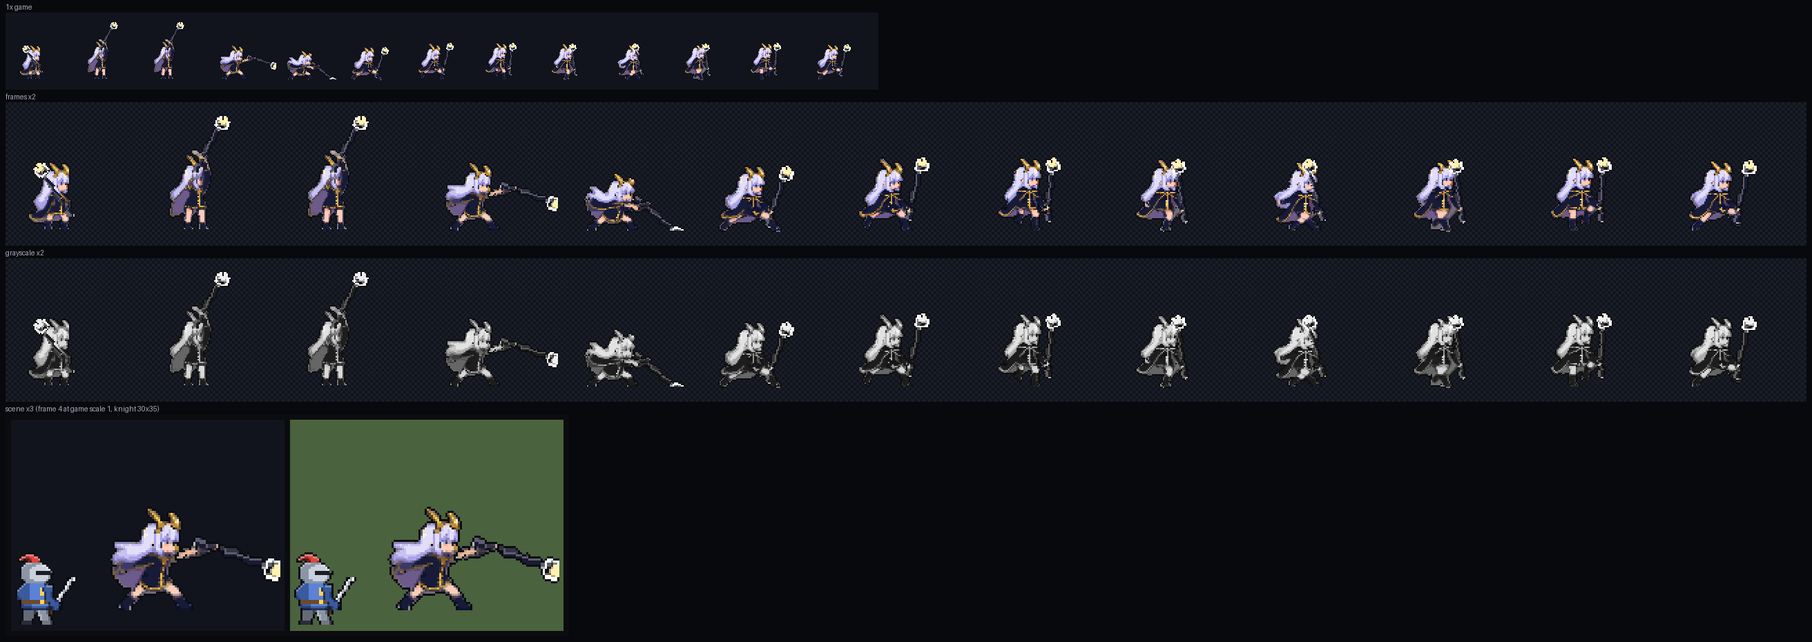
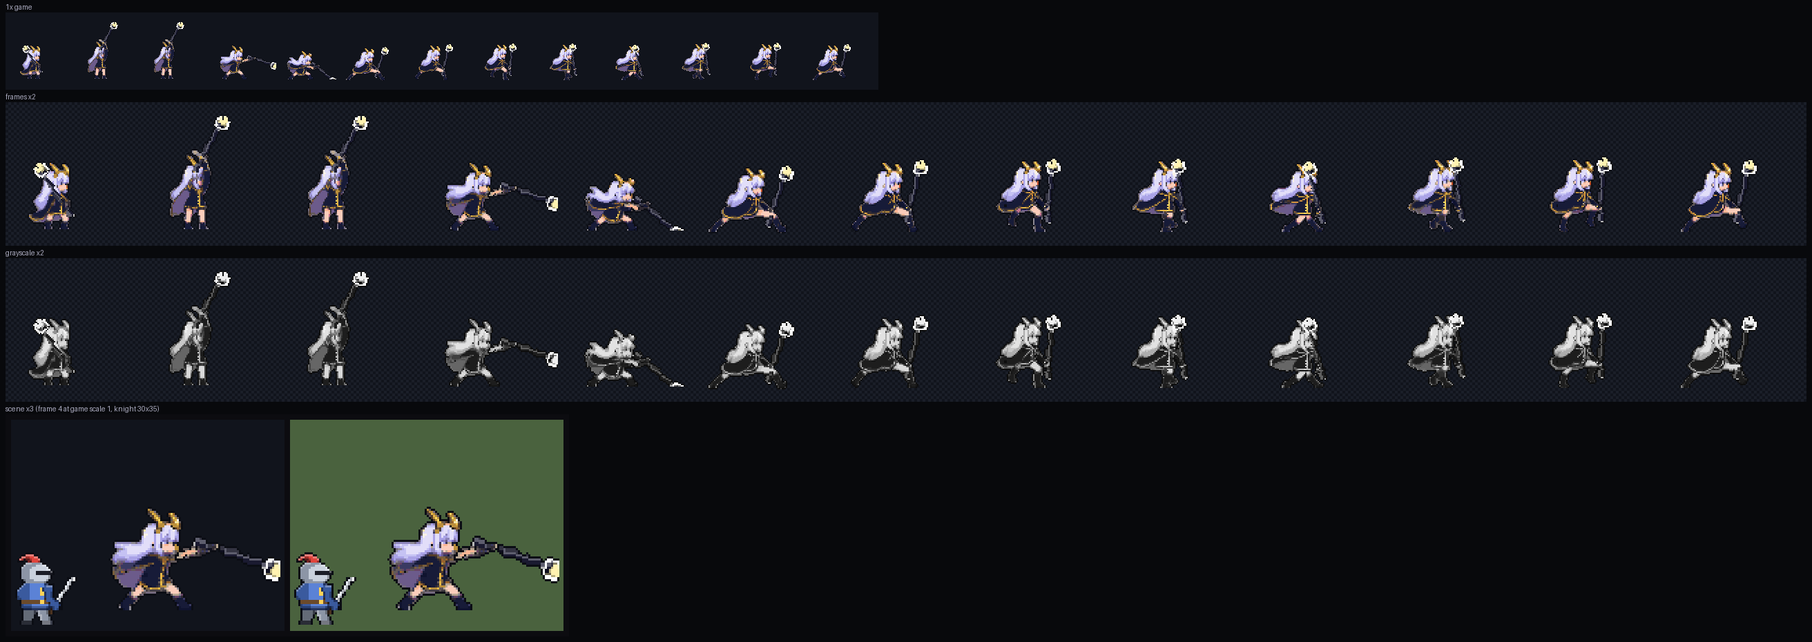
마법사 계열: 빙결·뇌제 걷기 다듬기 (W2 재생성 usage 6, 누계 94/105, 프레임 고르기 walk_pick), 뇌제 합격, 스펙 마무리

diff --git a/src/sprites/meta.js b/src/sprites/meta.js
@@ -14,7 +14,7 @@ const SHEET_META = {
   dragoon: {"w":128,"h":128,"foot":[36,112],"anims":{"idle":{"row":0,"frames":4,"fps":6,"loop":true},"guard":{"row":1,"frames":4,"fps":8,"loop":true},"walk":{"row":2,"frames":8,"fps":10,"loop":true},"atkA":{"row":3,"frames":7,"fps":14,"loop":false,"hit":2},"atkB":{"row":4,"frames":6,"fps":14,"loop":false,"hit":2},"cast":{"row":5,"frames":9,"fps":10,"loop":true,"key":"wa","val":[-1.57,-1.2,-0.8,-0.4,0,0.4,0.8,1.2,1.57],"wrap":false},"hurt":{"row":6,"frames":2,"fps":12,"loop":false},"death":{"row":7,"frames":5,"fps":8,"loop":false}},"pts":{"idle":[[62,94,53,57],[62,94,53,58],[62,94,53,58],[62,94,53,57]],"guard":[[84,87,32,70],[84,88,32,71],[84,88,32,71],[84,87,32,70]],"walk":[[62,94,53,57],[53,60,51,56],[49,95,31,57],[50,64,47,57],[49,96,46,58],[50,63,48,57],[52,60,50,56],[53,59,51,56]],"atkA":[[84,87,32,70],[80,87,29,73],[93,85,36,70],[103,84,45,72],[99,84,40,71],[93,86,36,69],[90,84,33,69]],"atkB":[[68,58,66,56],[68,49,66,47],[70,104,47,56],[72,105,46,76],[95,92,38,71],[91,86,34,69]],"cast":[[68,49,66,47],[68,49,66,47],[68,49,66,47],[68,58,66,56],[95,92,38,71],[95,92,38,71],[72,105,46,76],[70,104,47,56],[70,104,47,56]],"hurt":[[58,88,42,52],[61,91,48,54]],"death":[[67,60,63,58],[80,68,49,64],[92,86,53,68],[93,103,42,68],[78,94,48,70]]},"v":"34231d57"},
   electromancer: {"w":96,"h":96,"foot":[33,88],"anims":{"idle":{"row":0,"frames":4,"fps":4,"loop":true},"guard":{"row":1,"frames":4,"fps":4,"loop":true},"walk":{"row":2,"frames":8,"fps":10,"loop":true},"atkA":{"row":3,"frames":7,"fps":16,"loop":false,"hit":3},"atkB":{"row":4,"frames":7,"fps":16,"loop":false,"hit":4},"cast":{"row":5,"frames":7,"fps":10,"loop":false,"key":"bowA","val":[-0.2,-0.2,-0.7,-1.4,-1.4,0.7,1.2]},"hurt":{"row":6,"frames":2,"fps":12,"loop":false},"death":{"row":7,"frames":5,"fps":8,"loop":false}},"pts":{"idle":[[49,40,34,40],[49,40,34,40],[49,41,34,41],[49,41,34,41]],"guard":[[49,41,34,41],[49,41,34,41],[49,42,34,42],[49,42,34,42]],"walk":[[62,44,35,40],[58,42,39,38],[54,40,37,37],[45,42,31,38],[39,43,31,39],[46,42,35,38],[53,40,31,36],[59,42,28,44]],"atkA":[[49,40,34,40],[0,32,13,42],[86,49,33,41],[95,77,38,43],[95,69,39,46],[91,71,34,42],[69,45,32,40]],"atkB":[[64,50,30,45],[36,4,36,3],[11,9,19,9],[78,79,37,46],[88,88,49,50],[86,92,49,50],[79,59,35,43]],"cast":[[39,44,30,40],[37,43,30,39],[26,12,31,11],[38,0,38,0],[40,0,38,0],[95,54,35,42],[86,91,48,49]],"hurt":[[47,40,32,40],[48,40,33,40]],"death":[[47,40,32,40],[47,40,28,35],[47,40,28,56],[47,40,22,56],[47,40,26,61]]},"v":"c893991a"},
   fighter: {"w":64,"h":64,"foot":[32,58],"anims":{"idle":{"row":0,"frames":4,"fps":6,"loop":true},"guard":{"row":1,"frames":4,"fps":8,"loop":true},"walk":{"row":2,"frames":6,"fps":10,"loop":true},"dash":{"row":3,"frames":2,"fps":12,"loop":true},"atkA":{"row":4,"frames":4,"fps":14,"loop":false,"hit":1},"atkB":{"row":5,"frames":4,"fps":14,"loop":false,"hit":1},"charge":{"row":6,"frames":4,"fps":10,"loop":true},"release":{"row":7,"frames":3,"fps":12,"loop":false,"hit":1},"hurt":{"row":8,"frames":2,"fps":12,"loop":false},"death":{"row":9,"frames":5,"fps":8,"loop":false},"sit":{"row":10,"frames":2,"fps":2,"loop":true}},"pts":{"idle":[[41,35,35,21],[39,34,33,18],[40,34,37,18],[41,44,38,19]],"guard":[[45,40,37,22],[45,41,37,23],[45,41,37,23],[45,40,37,22]],"walk":[[46,40,36,22],[46,43,40,20],[44,45,38,21],[43,28,37,22],[43,45,35,22],[45,42,37,20]],"dash":[[47,47,40,21],[40,28,35,22]],"atkA":[[49,42,41,24],[50,39,37,21],[51,40,36,22],[45,40,37,22]],"atkB":[[46,40,36,23],[53,41,43,23],[51,41,40,22],[51,42,42,24]],"charge":[[45,43,35,21],[44,46,36,21],[44,45,39,21],[44,46,38,23]],"release":[[49,42,41,24],[62,45,51,27],[53,41,43,23]],"hurt":[[46,50,35,22],[47,30,40,24]],"death":[[43,48,33,21],[45,33,43,26],[46,34,39,28],[49,51,42,34],[49,45,45,39]],"sit":[[38,33,31,27],[38,34,31,28]]},"v":"f7aa33a6"},
-  frostlord: {"w":96,"h":96,"foot":[33,89],"anims":{"idle":{"row":0,"frames":4,"fps":4,"loop":true},"guard":{"row":1,"frames":4,"fps":4,"loop":true},"walk":{"row":2,"frames":8,"fps":10,"loop":true},"atkA":{"row":3,"frames":7,"fps":16,"loop":false,"hit":3},"atkB":{"row":4,"frames":7,"fps":16,"loop":false,"hit":4},"cast":{"row":5,"frames":6,"fps":9,"loop":false,"key":"bowA","val":[-0.2,-0.7,-1.4,-1.4,0.7,1.2]},"hurt":{"row":6,"frames":2,"fps":12,"loop":false},"death":{"row":7,"frames":5,"fps":8,"loop":false}},"pts":{"idle":[[55,39,29,41],[55,39,29,41],[55,40,29,42],[55,40,29,42]],"guard":[[55,40,29,42],[55,40,29,42],[55,41,29,43],[55,41,29,43]],"walk":[[62,42,36,40],[59,39,39,39],[54,37,34,35],[44,38,36,36],[38,40,36,38],[45,38,35,36],[52,37,34,35],[59,39,27,47]],"atkA":[[55,39,29,41],[0,27,31,42],[89,48,36,41],[95,46,37,44],[95,48,37,44],[86,49,34,43],[69,43,35,40]],"atkB":[[64,47,31,46],[26,3,27,1],[26,3,27,1],[90,70,37,45],[87,94,45,50],[94,75,39,49],[77,55,36,42]],"cast":[[31,43,31,41],[8,22,20,29],[36,0,32,0],[38,0,33,0],[95,54,38,41],[86,93,45,47]],"hurt":[[53,39,27,41],[54,39,28,41]],"death":[[53,39,27,41],[53,39,13,34],[53,39,25,19],[53,39,33,40],[53,39,41,45]]},"v":"94d47a83"},
+  frostlord: {"w":96,"h":96,"foot":[33,89],"anims":{"idle":{"row":0,"frames":4,"fps":4,"loop":true},"guard":{"row":1,"frames":4,"fps":4,"loop":true},"walk":{"row":2,"frames":8,"fps":10,"loop":true},"atkA":{"row":3,"frames":7,"fps":16,"loop":false,"hit":3},"atkB":{"row":4,"frames":7,"fps":16,"loop":false,"hit":4},"cast":{"row":5,"frames":6,"fps":9,"loop":false,"key":"bowA","val":[-0.2,-0.7,-1.4,-1.4,0.7,1.2]},"hurt":{"row":6,"frames":2,"fps":12,"loop":false},"death":{"row":7,"frames":5,"fps":8,"loop":false}},"pts":{"idle":[[55,39,29,41],[55,39,29,41],[55,40,29,42],[55,40,29,42]],"guard":[[55,40,29,42],[55,40,29,42],[55,41,29,43],[55,41,29,43]],"walk":[[62,42,36,41],[58,40,35,39],[54,37,34,35],[44,38,36,36],[38,40,36,38],[45,38,35,36],[52,37,34,35],[59,39,27,47]],"atkA":[[55,39,29,41],[0,27,31,42],[89,48,36,41],[95,46,37,44],[95,48,37,44],[86,49,34,43],[69,43,35,40]],"atkB":[[64,47,31,46],[26,3,27,1],[26,3,27,1],[90,70,37,45],[87,94,45,50],[94,75,39,49],[77,55,36,42]],"cast":[[31,43,31,41],[8,22,20,29],[36,0,32,0],[38,0,33,0],[95,54,38,41],[86,93,45,47]],"hurt":[[53,39,27,41],[54,39,28,41]],"death":[[53,39,27,41],[53,39,13,34],[53,39,25,19],[53,39,33,40],[53,39,41,45]]},"v":"c337102d"},
   grandmaster: {"w":64,"h":64,"foot":[32,58],"anims":{"idle":{"row":0,"frames":4,"fps":6,"loop":true},"guard":{"row":1,"frames":4,"fps":8,"loop":true},"walk":{"row":2,"frames":6,"fps":10,"loop":true},"dash":{"row":3,"frames":2,"fps":12,"loop":true},"atkA":{"row":4,"frames":4,"fps":14,"loop":false,"hit":1},"atkB":{"row":5,"frames":4,"fps":14,"loop":false,"hit":1},"charge":{"row":6,"frames":4,"fps":10,"loop":true},"release":{"row":7,"frames":3,"fps":12,"loop":false,"hit":1},"skillA":{"row":8,"frames":4,"fps":14,"loop":false,"hit":2},"skillB":{"row":9,"frames":4,"fps":14,"loop":true,"hit":0},"awaken":{"row":10,"frames":6,"fps":10,"loop":false},"hurt":{"row":11,"frames":2,"fps":12,"loop":false},"death":{"row":12,"frames":5,"fps":8,"loop":false},"sit":{"row":13,"frames":2,"fps":2,"loop":true}},"pts":{"idle":[[44,40,34,25],[44,41,34,26],[44,41,34,26],[44,40,34,25]],"guard":[[47,39,33,25],[47,40,33,26],[47,40,33,26],[47,39,33,25]],"walk":[[42,42,32,24],[44,44,32,22],[40,41,30,20],[38,42,30,21],[38,42,29,21],[40,50,30,22]],"dash":[[37,38,26,27],[50,43,40,27]],"atkA":[[45,46,33,25],[46,44,31,21],[46,44,31,21],[47,39,33,25]],"atkB":[[42,35,34,25],[57,39,35,24],[57,39,35,24],[47,39,33,25]],"charge":[[45,46,33,25],[42,35,34,25],[42,34,35,26],[42,35,34,25]],"release":[[42,34,35,26],[46,44,31,21],[46,44,31,21]],"skillA":[[42,35,34,25],[57,39,35,24],[58,39,36,24],[58,39,36,24]],"skillB":[[49,36,34,21],[49,37,34,22],[49,37,34,22],[49,36,34,21]],"awaken":[[42,35,34,25],[45,46,33,25],[42,39,33,21],[42,40,33,22],[42,39,33,21],[47,39,33,25]],"hurt":[[44,43,32,23],[37,43,25,23]],"death":[[43,40,35,24],[45,34,37,25],[45,40,37,27],[50,46,38,36],[49,49,40,41]],"sit":[[46,49,33,21],[46,50,33,22]]},"v":"1bb3225a"},
   greatswordsman: {"w":64,"h":64,"foot":[28,59],"anims":{"idle":{"row":0,"frames":2,"fps":3,"loop":true},"walk":{"row":1,"frames":4,"fps":8,"loop":true},"atkA":{"row":2,"frames":7,"fps":12,"loop":false,"hit":3},"cast":{"row":3,"frames":6,"fps":8,"loop":true},"hurt":{"row":4,"frames":2,"fps":12,"loop":false}},"pts":{"idle":[[37,35,35,14],[37,35,35,15]],"walk":[[37,35,35,14],[37,35,35,15],[37,35,35,14],[37,35,35,16]],"atkA":[[37,35,35,14],[37,35,25,13],[37,35,24,8],[37,35,35,11],[37,35,35,11],[37,35,35,15],[37,35,35,14]],"cast":[[37,35,35,14],[37,35,31,9],[37,35,43,6],[37,35,43,6],[37,35,30,14],[37,35,35,14]],"hurt":[[37,35,33,14],[37,35,34,14]]},"v":"a4044480"},
   halberdier: {"w":128,"h":128,"foot":[66,112],"anims":{"idle":{"row":0,"frames":4,"fps":6,"loop":true},"guard":{"row":1,"frames":4,"fps":8,"loop":true},"walk":{"row":2,"frames":8,"fps":10,"loop":true},"atkA":{"row":3,"frames":7,"fps":14,"loop":false,"hit":2},"atkB":{"row":4,"frames":6,"fps":14,"loop":false,"hit":2},"cast":{"row":5,"frames":8,"fps":10,"loop":true,"key":"wa","val":[-3.14,-2.36,-1.57,-0.79,0,0.79,1.57,2.36],"wrap":true},"hurt":{"row":6,"frames":2,"fps":12,"loop":false},"death":{"row":7,"frames":5,"fps":8,"loop":false}},"pts":{"idle":[[94,71,84,60],[94,72,84,61],[94,72,84,61],[94,71,84,60]],"guard":[[85,96,66,68],[85,96,66,69],[85,96,66,69],[85,96,66,68]],"walk":[[94,71,84,60],[95,70,84,59],[95,69,84,58],[95,70,84,59],[94,72,84,60],[95,70,84,59],[95,69,84,58],[95,70,84,59]],"atkA":[[85,96,66,68],[85,100,65,71],[106,74,67,66],[116,88,80,69],[116,105,75,75],[107,89,73,68],[105,93,70,67]],"atkB":[[84,105,65,67],[85,101,65,66],[99,96,82,74],[112,105,83,75],[120,83,76,70],[115,85,70,67]],"cast":[[85,96,66,68],[84,105,65,67],[84,105,65,67],[120,83,76,70],[106,74,67,66],[116,105,75,75],[116,105,75,75],[85,100,65,71]],"hurt":[[87,67,74,55],[91,68,79,57]],"death":[[103,74,94,61],[113,81,87,66],[119,94,96,72],[121,104,88,82],[110,100,89,87]]},"v":"19944184"},
@@ -33,7 +33,7 @@ const SHEET_META = {
   swordsaint: {"w":96,"h":96,"foot":[48,91],"anims":{"idle":{"row":0,"frames":4,"fps":6,"loop":true},"guard":{"row":1,"frames":4,"fps":8,"loop":true},"walk":{"row":2,"frames":6,"fps":10,"loop":true},"atkA":{"row":3,"frames":4,"fps":14,"loop":false,"hit":2},"atkB":{"row":4,"frames":4,"fps":14,"loop":false,"hit":2},"cast":{"row":5,"frames":6,"fps":8,"loop":true,"key":"wa","val":[-2.618,-1.745,-1.047,-0.436,0.175,0.698]},"hurt":{"row":6,"frames":2,"fps":12,"loop":false},"death":{"row":7,"frames":5,"fps":8,"loop":false}},"pts":{"idle":[[57,82,47,54],[57,82,47,53],[57,81,47,52],[57,81,47,54]],"guard":[[57,83,47,55],[57,83,47,54],[57,82,47,53],[57,82,47,55]],"walk":[[55,81,49,54],[55,82,50,55],[54,82,50,56],[53,81,48,55],[51,81,48,54],[51,82,48,54]],"atkA":[[59,79,48,55],[53,70,63,50],[57,76,49,55],[55,85,49,55]],"atkB":[[59,79,48,55],[42,70,64,50],[56,72,48,55],[53,83,48,55]],"cast":[[34,76,47,55],[42,70,36,49],[54,70,64,50],[57,72,49,55],[57,76,49,55],[55,85,49,55]],"hurt":[[55,82,45,54],[56,82,46,54]],"death":[[48,86,38,82],[48,86,38,82],[48,86,38,82],[48,86,38,82],[48,86,38,82]]},"v":"a95ef063"},
   swordsman: {"w":64,"h":64,"foot":[28,59],"anims":{"idle":{"row":0,"frames":2,"fps":3,"loop":true},"walk":{"row":1,"frames":4,"fps":8,"loop":true},"atkA":{"row":2,"frames":7,"fps":12,"loop":false,"hit":3},"cast":{"row":3,"frames":6,"fps":8,"loop":true},"hurt":{"row":4,"frames":2,"fps":12,"loop":false}},"pts":{"idle":[[37,35,31,16],[37,35,31,17]],"walk":[[37,35,30,16],[37,35,30,13],[37,35,29,15],[37,35,30,13]],"atkA":[[37,35,31,16],[37,35,29,17],[37,35,42,7],[37,35,35,16],[37,35,35,16],[37,35,31,17],[37,35,31,16]],"cast":[[37,35,31,16],[37,35,41,7],[37,35,44,6],[37,35,44,6],[37,35,24,16],[37,35,31,16]],"hurt":[[37,35,29,16],[37,35,30,16]]},"v":"1deb230b"},
   tempest: {"w":64,"h":64,"foot":[32,58],"anims":{"idle":{"row":0,"frames":4,"fps":6,"loop":true},"guard":{"row":1,"frames":4,"fps":8,"loop":true},"walk":{"row":2,"frames":6,"fps":10,"loop":true},"dash":{"row":3,"frames":2,"fps":12,"loop":true},"atkA":{"row":4,"frames":4,"fps":14,"loop":false,"hit":1},"atkB":{"row":5,"frames":4,"fps":14,"loop":false,"hit":1},"charge":{"row":6,"frames":4,"fps":10,"loop":true},"release":{"row":7,"frames":3,"fps":12,"loop":false,"hit":1},"skillA":{"row":8,"frames":4,"fps":14,"loop":false,"hit":2},"skillB":{"row":9,"frames":4,"fps":14,"loop":true,"hit":1},"awaken":{"row":10,"frames":6,"fps":10,"loop":false},"hurt":{"row":11,"frames":2,"fps":12,"loop":false},"death":{"row":12,"frames":5,"fps":8,"loop":false},"sit":{"row":13,"frames":2,"fps":2,"loop":true}},"pts":{"idle":[[46,45,27,20],[46,45,27,21],[46,45,27,21],[46,45,27,20]],"guard":[[47,46,27,20],[47,46,27,21],[47,46,27,21],[47,46,27,20]],"walk":[[45,47,26,19],[43,47,27,20],[43,35,27,20],[42,34,27,20],[42,35,27,20],[43,45,27,19]],"dash":[[35,29,20,19],[39,30,24,19]],"atkA":[[47,46,27,20],[58,25,19,11],[58,25,19,11],[47,46,27,20]],"atkB":[[45,48,27,20],[62,28,21,9],[62,28,21,9],[47,46,27,20]],"charge":[[45,46,27,20],[38,51,21,20],[33,40,17,21],[34,41,18,21]],"release":[[38,51,21,20],[56,39,31,20],[56,39,31,20]],"skillA":[[34,57,17,21],[57,26,29,12],[57,22,29,8],[57,27,29,13]],"skillB":[[57,29,25,16],[62,28,21,9],[57,29,25,16],[62,28,21,9]],"awaken":[[34,41,18,21],[45,46,27,20],[53,34,27,17],[53,35,27,18],[53,34,27,17],[47,46,27,20]],"hurt":[[46,46,23,7],[44,43,8,18]],"death":[[48,43,31,20],[49,38,34,21],[49,32,34,21],[52,49,33,31],[51,47,37,37]],"sit":[[38,40,24,20],[38,40,23,21]]},"v":"1d7b7083"},
-  thunderEmperor: {"w":96,"h":96,"foot":[33,88],"anims":{"idle":{"row":0,"frames":4,"fps":4,"loop":true},"guard":{"row":1,"frames":4,"fps":4,"loop":true},"walk":{"row":2,"frames":8,"fps":10,"loop":true},"atkA":{"row":3,"frames":7,"fps":16,"loop":false,"hit":3},"atkB":{"row":4,"frames":7,"fps":16,"loop":false,"hit":4},"cast":{"row":5,"frames":5,"fps":7,"loop":false,"key":"bowA","val":[-0.2,-1.4,-1.4,0.7,1.2]},"hurt":{"row":6,"frames":2,"fps":12,"loop":false},"death":{"row":7,"frames":5,"fps":8,"loop":false}},"pts":{"idle":[[55,39,31,41],[55,39,31,41],[55,40,31,42],[55,40,31,42]],"guard":[[55,40,31,42],[55,40,31,42],[55,41,31,43],[55,41,31,43]],"walk":[[62,42,34,42],[59,36,30,36],[54,36,39,37],[44,37,32,37],[37,37,39,36],[45,37,41,37],[53,36,31,36],[59,38,24,55]],"atkA":[[55,39,31,41],[0,30,26,42],[79,31,38,39],[95,61,36,43],[95,54,36,43],[89,51,32,40],[49,38,33,40]],"atkB":[[65,48,32,45],[54,6,38,29],[54,6,38,29],[90,70,40,42],[88,93,45,47],[82,95,38,47],[77,55,32,43]],"cast":[[18,41,27,39],[54,6,38,29],[54,6,38,29],[95,70,32,39],[86,93,47,50]],"hurt":[[53,39,29,41],[54,39,30,41]],"death":[[53,39,29,41],[53,39,17,38],[53,39,21,26],[53,39,27,43],[53,39,37,48]]},"v":"30563f75"},
+  thunderEmperor: {"w":96,"h":96,"foot":[33,88],"anims":{"idle":{"row":0,"frames":4,"fps":4,"loop":true},"guard":{"row":1,"frames":4,"fps":4,"loop":true},"walk":{"row":2,"frames":8,"fps":10,"loop":true},"atkA":{"row":3,"frames":7,"fps":16,"loop":false,"hit":3},"atkB":{"row":4,"frames":7,"fps":16,"loop":false,"hit":4},"cast":{"row":5,"frames":5,"fps":7,"loop":false,"key":"bowA","val":[-0.2,-1.4,-1.4,0.7,1.2]},"hurt":{"row":6,"frames":2,"fps":12,"loop":false},"death":{"row":7,"frames":5,"fps":8,"loop":false}},"pts":{"idle":[[55,39,31,41],[55,39,31,41],[55,40,31,42],[55,40,31,42]],"guard":[[55,40,31,42],[55,40,31,42],[55,41,31,43],[55,41,31,43]],"walk":[[62,42,33,43],[59,38,32,39],[54,37,41,38],[44,37,34,38],[38,39,38,38],[45,36,44,36],[53,36,29,43],[59,38,16,66]],"atkA":[[55,39,31,41],[0,30,26,42],[79,31,38,39],[95,61,36,43],[95,54,36,43],[89,51,32,40],[49,38,33,40]],"atkB":[[65,48,32,45],[54,6,38,29],[54,6,38,29],[90,70,40,42],[88,93,45,47],[82,95,38,47],[77,55,32,43]],"cast":[[18,41,27,39],[54,6,38,29],[54,6,38,29],[95,70,32,39],[86,93,47,50]],"hurt":[[53,39,29,41],[54,39,30,41]],"death":[[53,39,29,41],[53,39,17,38],[53,39,21,26],[53,39,27,43],[53,39,37,48]]},"v":"04c6012e"},
   tyrant: {"w":128,"h":128,"foot":[64,123],"anims":{"idle":{"row":0,"frames":4,"fps":6,"loop":true},"guard":{"row":1,"frames":4,"fps":8,"loop":true},"walk":{"row":2,"frames":6,"fps":10,"loop":true},"atkA":{"row":3,"frames":4,"fps":14,"loop":false,"hit":2},"atkB":{"row":4,"frames":4,"fps":14,"loop":false,"hit":2},"cast":{"row":5,"frames":6,"fps":8,"loop":true,"key":"wa","val":[-2.618,-1.745,-1.047,-0.436,0.175,0.698]},"hurt":{"row":6,"frames":2,"fps":12,"loop":false},"death":{"row":7,"frames":5,"fps":8,"loop":false}},"pts":{"idle":[[73,114,94,77],[73,114,94,77],[73,113,94,76],[73,113,94,76]],"guard":[[73,115,94,78],[73,115,94,78],[73,114,94,77],[73,114,94,77]],"walk":[[71,113,57,85],[71,114,57,86],[70,114,57,86],[69,113,55,85],[67,113,56,85],[67,114,56,85]],"atkA":[[73,113,94,76],[56,99,58,55],[72,104,56,84],[69,115,56,84]],"atkB":[[73,113,94,76],[50,107,53,86],[74,111,56,86],[74,111,56,86]],"cast":[[50,107,16,81],[56,99,46,56],[72,99,93,62],[74,111,56,86],[74,111,56,86],[69,115,56,84]],"hurt":[[71,114,92,77],[72,114,93,77]],"death":[[64,118,54,114],[64,118,54,114],[64,118,54,114],[64,118,54,114],[64,118,54,114]]},"v":"b1bf88b9"},
   voidArcher: {"w":96,"h":96,"foot":[42,86],"anims":{"idle":{"row":0,"frames":4,"fps":6,"loop":true},"guard":{"row":1,"frames":4,"fps":8,"loop":true},"walk":{"row":2,"frames":8,"fps":10,"loop":true},"atkA":{"row":3,"frames":8,"fps":14,"loop":false,"hit":5},"atkB":{"row":4,"frames":8,"fps":14,"loop":false,"hit":5},"cast":{"row":5,"frames":4,"fps":10,"loop":true,"key":"pull","val":[0,4.5,7.5,12]},"castUp":{"row":6,"frames":2,"fps":10,"loop":true,"key":"pull","val":[6,12]},"hurt":{"row":7,"frames":2,"fps":12,"loop":false},"death":{"row":8,"frames":5,"fps":8,"loop":false}},"pts":{"idle":[[62,55,47,36],[62,56,47,37],[62,56,47,37],[62,55,47,36]],"guard":[[62,56,47,37],[62,57,47,38],[62,57,47,38],[62,56,47,37]],"walk":[[58,68,48,37],[60,64,48,36],[60,63,48,35],[60,64,48,36],[52,52,48,37],[61,68,48,36],[62,66,48,35],[63,66,48,36]],"atkA":[[62,55,47,36],[61,59,45,37],[59,62,43,37],[57,60,42,37],[57,60,43,37],[59,60,44,37],[59,60,44,37],[62,55,47,36]],"atkB":[[62,55,47,36],[61,59,45,37],[59,62,43,37],[57,60,42,37],[57,60,43,37],[59,60,44,37],[59,60,44,37],[62,55,47,36]],"cast":[[62,55,47,36],[61,59,45,37],[59,62,43,37],[57,60,43,37]],"castUp":[[59,62,43,37],[57,60,43,37]],"hurt":[[60,55,45,36],[61,55,46,36]],"death":[[61,55,46,36],[50,61,38,36],[46,69,14,36],[40,67,8,50],[39,72,7,53]]},"v":"af43de05"},
   warlord: {"w":128,"h":128,"foot":[66,112],"anims":{"idle":{"row":0,"frames":4,"fps":6,"loop":true},"guard":{"row":1,"frames":4,"fps":8,"loop":true},"walk":{"row":2,"frames":8,"fps":10,"loop":true},"atkA":{"row":3,"frames":8,"fps":14,"loop":false,"hit":2},"atkB":{"row":4,"frames":8,"fps":14,"loop":false,"hit":2},"cast":{"row":5,"frames":7,"fps":10,"loop":true,"key":"wa","val":[-2.99,-2.4,-2.16,-2.01,-1.65,-0.11,0.01],"wrap":true},"hurt":{"row":6,"frames":2,"fps":12,"loop":false},"death":{"row":7,"frames":5,"fps":8,"loop":false}},"pts":{"idle":[[87,76,82,65],[88,75,83,63],[88,75,83,63],[87,76,82,65]],"guard":[[81,67,70,59],[81,68,70,60],[81,68,70,60],[81,67,70,59]],"walk":[[89,77,84,65],[89,78,85,66],[89,75,84,64],[89,75,84,64],[88,76,83,63],[87,79,81,64],[88,74,81,63],[89,76,83,61]],"atkA":[[81,67,70,59],[83,105,50,60],[88,93,41,76],[87,92,60,78],[101,97,69,79],[108,98,68,79],[107,100,68,78],[106,96,68,78]],"atkB":[[78,71,70,56],[81,105,56,56],[88,104,52,58],[89,104,49,58],[109,96,68,78],[108,97,68,78],[111,92,65,78],[109,95,65,78]],"cast":[[87,92,60,78],[89,104,49,58],[83,105,50,60],[81,105,56,56],[81,67,70,59],[111,92,65,78],[106,96,68,78]],"hurt":[[79,66,73,52],[84,64,78,53]],"death":[[94,68,90,56],[104,67,85,65],[114,87,86,72],[114,105,93,83],[99,98,68,86]]},"v":"9517f5f8"},

diff --git a/dev/review/sheets-mage.html b/dev/review/sheets-mage.html
@@ -39,7 +39,7 @@
   </ul>
 </div>
 
-<h2>▣5 3차 3종 — 새 디자인 + 관절 애니 (2026-10-17, PixelLab usage 37 · 계열 합계 88/90) <span class="wait">· 평타 3종 합격 · 시전+걷기 대마도사 합격, 빙결·뇌제 3.29 (SHEET_ON 꺼 둠, 켤지 사용자 확인)</span></h2>
+<h2>▣5 3차 3종 — 새 디자인 + 관절 애니 (2026-10-17, PixelLab usage 43 · 계열 합계 94/105) <span class="ok">· 켜짐 (사용자 승인) · 평타 3종 합격 · 시전+걷기 대마도사·뇌제 합격, 빙결의 군주 3.29</span></h2>
 <div class="box">
   <ul>
     <li>안 B(2차 시트에 소품 붙이기)는 빙결의 군주 시험 3.43 — 실루엣 차이가 왕관뿐(색깔놀이) → 안 A. 2차 그림 img2img 시안 12장도 모두 2차 복제(rules 1) → 텍스트 생성.</li>
@@ -48,8 +48,8 @@
   </ul>
   <table><tr><th>직업</th><th>평타 A+B</th><th>시전+걷기</th></tr>
     <tr><td>대마도사</td><td class="ok">3.57</td><td class="ok">3.57 (걷기 재생성 후)</td></tr>
-    <tr><td>빙결의 군주</td><td class="ok">3.57 (수리 후)</td><td class="no">3.29 — 걷기는 읽힘, 일부 프레임 다리 뭉개짐 (2.86→3.29)</td></tr>
-    <tr><td>뇌제</td><td class="ok">3.57 (수리 후)</td><td class="no">3.29 — 걷기는 읽힘, 보폭 차이 작음 (3.14→3.29)</td></tr></table>
+    <tr><td>빙결의 군주</td><td class="ok">3.57 (수리 후)</td><td class="no">3.29 — 걷기 후반 망토가 다리를 덮음 (2.86→3.29, 두 번 다듬어 유지)</td></tr>
+    <tr><td>뇌제</td><td class="ok">3.57 (수리 후)</td><td class="ok">3.57 (걷기 다듬기: 보폭 1.8배 재생성)</td></tr></table>
   <p>시험: <a href="../skills.html?sheetsOn=archmage,frostlord,thunderEmperor">dev/skills.html?sheetsOn=archmage,frostlord,thunderEmperor</a> (스킬 48시전 예외 0)</p>
   <div class="grid">
     <div class="card"><img src="sheets-mage/archmage.gif">대마도사</div>

diff --git a/dev/sheets-mage/skelgen.py b/dev/sheets-mage/skelgen.py
@@ -24,6 +24,7 @@ DESC = {
     'thunderEmperor': 'small chibi young woman thunder empress, 3 heads tall, golden crown with two large golden horns, long white hair, navy cape with gold trim, navy coat with gold buttons, navy boots, right hand empty, side view facing right the whole time, face always visible, never turns around',
 }
 ACTION = {'A': 'magic staff attacks: thrust forward, then raise overhead and slam down', 'B': 'casting a spell with both hands then walking',
+          'W2': 'walking forward with very long clear strides, the front knee lifting high, the back leg pushing far behind, the long robe or cape and long hair staying behind her so both legs in front are clearly separated',
           'W': 'walking forward with long clear strides, knees lifting, the long robe parting so both legs are clearly visible'}
 
 
@@ -111,7 +112,7 @@ def b64(im):
     return {'type': 'base64', 'base64': base64.b64encode(buf.getvalue()).decode(), 'format': 'png'}
 
 
-def walk_big():
+def walk_big(kx=1.5, lift=3, back=0):
     """걷기 과장 8f (3차 재생성, 로드맵 승인 2026-10-17): 긴 장포·망토가 다리를 가려 모델이 다리를 거의 안 움직였다 →
     보폭(골반 기준 무릎·발 x) 1.5배, 앞으로 나가는 무릎 3칸 들기, 몸(다리 밖) 위아래 ±2 (보폭 클 때 내림), 윗몸 앞기울기 +2"""
     out = []
@@ -121,8 +122,8 @@ def walk_big():
         q = dict(p); hx = (p['RIGHT HIP'][0] + p['LEFT HIP'][0]) / 2
         for side in ('RIGHT', 'LEFT'):
             for j in ('KNEE', 'LEG'):
-                x, y = p[f'{side} {j}']; q[f'{side} {j}'] = (hx + (x - hx) * 1.5, y)
-            if p[f'{side} KNEE'][0] > hx + 1: q[f'{side} KNEE'] = (q[f'{side} KNEE'][0], q[f'{side} KNEE'][1] - 3)
+                x, y = p[f'{side} {j}']; q[f'{side} {j}'] = (hx + (x - hx) * kx - (back if x < hx else 0), y)
+            if p[f'{side} KNEE'][0] > hx + 1: q[f'{side} KNEE'] = (q[f'{side} KNEE'][0], q[f'{side} KNEE'][1] - lift)
         dy = 2 - 4 * (sp - lo) / max(1, hi - lo)          # 보폭 가장 클 때(디딤) +2... 아래, 가장 작을 때(지나감) -2 위
         dy = -dy
         for k in q:
@@ -135,12 +136,14 @@ def walk_big():
 def seq(part):
     M = SK.MOVES_B
     if part == 'W': return walk_big()
+    if part == 'W2': return walk_big(1.8, 5, 3)        # 걷기 다듬기 (로드맵 승인 2026-10-17): 보폭 1.8배·무릎 5칸·뒷다리 3칸 더 뒤
     if part == 'A': return M['atkA'][:7] + M['atkB'][:7] + [(SK.to_b(SK.pose()), -80, None)]
     return M['cast'][:7] + M['walk'][:8]
 
 
 def prep(cls, part, seed=71):
     if cls == 'electromancer': seed = 97      # 2회차 시드
+    if part == 'W2': seed = 131               # 걷기 다듬기 시드
     d = os.path.join(HERE, 'skel', cls); os.makedirs(d, exist_ok=True)
     first, staff, off, sz = place(cls)
     first.save(os.path.join(d, 'first.png')); staff.save(os.path.join(d, 'staff.png'))
@@ -211,7 +214,7 @@ def post(cls, part):
         g = snap_hand(body, g, KP['RIGHT ELBOW'])                          # 모델 손이 설계보다 짧거나 어긋나면 실제 팔 끝 칸으로
         ms = model_staff(im, body, g, meta['staff_deg'][i])
         if ms and math.cos(math.radians(ms[1] - meta["staff_deg"][i])) < 0.8: ms = None     # 37° 넘게 어긋나면 이펙트를 잘못 잰 것 → 설계 각도
-        walk = (part == 'B' and i >= 7) or part == 'W'
+        walk = (part == 'B' and i >= 7) or part in ('W', 'W2')
         if ms and not walk: a = math.radians(ms[1])                         # 각도만 모델 지팡이 축 (팔 자세와 맞게). 걷기는 설계 각도 고정 (비평: 걷기 중 지팡이 튐)
         if part == 'A' and i == 0: a = math.radians(meta['staff_deg'][-1])  # 14→0 이음새 (비평 2026-10-17)
         if walk or (part == 'B' and i <= 1):

diff --git a/dev/sheets-mage/walk_pick.py b/dev/sheets-mage/walk_pick.py
@@ -1,0 +1,65 @@
+# 걷기 프레임 고르기 (로드맵 승인 2026-10-17 대안 A): 같은 관절 시간표로 뽑은 두 걷기(W1 = 첫 재생성, W2 = 더 과장)에서
+#  프레임 번호마다 하나를 고른다. 점수 = 다리 분리(발목 높이 줄의 덩어리 수·두 발 사이 폭) − 이웃 프레임과 거의 같으면 벌점 (DP).
+#  같은 번호는 같은 걸음 위상이라 섞어도 순서가 이어진다.
+#  python -I -B walk_pick.py <cls> [--only W1|W2]   → skel/<cls>/W-wpn/0..7.png, W-tips.json (W1 원본은 W1-wpn 에 보관)
+import os, sys, json, shutil
+from PIL import Image
+HERE = os.path.dirname(os.path.abspath(__file__))
+
+
+def leg_score(body):
+    B = body.load(); bb = body.getbbox(); foot = bb[3] - 1; s = 0
+    for dy in (3, 5, 7):                          # 발목~정강이 줄
+        y = foot - dy; runs = 0; inside = False; xs = []
+        for x in range(body.width):
+            on = B[x, y][3] > 0
+            if on and not inside: runs += 1
+            if on: xs.append(x)
+            inside = on
+        s += min(runs, 2) * 4 + (xs[-1] - xs[0] if xs else 0) * 0.3
+    return s
+
+
+def mask(im):
+    P = im.load(); return {(x, y) for y in range(im.height) for x in range(im.width) if P[x, y][3]}
+
+
+def iou(a, b): return len(a & b) / max(1, len(a | b))
+
+
+def pick(cls, only=None):
+    d = os.path.join(HERE, 'skel', cls)
+    w1 = os.path.join(d, 'W1-wpn')
+    if not os.path.exists(w1):                     # 첫 재생성 결과 보관
+        shutil.copytree(os.path.join(d, 'W-wpn'), w1); shutil.copytree(os.path.join(d, 'W-body'), os.path.join(d, 'W1-body'))
+        shutil.copy(os.path.join(d, 'W-tips.json'), os.path.join(d, 'W1-tips.json'))
+    src = {'W1': ('W1-wpn', 'W1-body', 'W1-tips.json'), 'W2': ('W2-wpn', 'W2-body', 'W2-tips.json')}
+    C = {k: dict(wpn=[Image.open(os.path.join(d, v[0], f'{i}.png')).convert('RGBA') for i in range(8)],
+                 body=[Image.open(os.path.join(d, v[1], f'{i}.png')).convert('RGBA') for i in range(8)],
+                 tips=json.load(open(os.path.join(d, v[2])))) for k, v in src.items() if not only or k == only}
+    keys = list(C)
+    sc = {k: [leg_score(b) for b in C[k]['body']] for k in keys}
+    ms = {k: [mask(b) for b in C[k]['body']] for k in keys}
+    # DP: 이웃과 IoU 0.93 넘게 같으면 벌점 (정지처럼 보임), 끝→처음 이음도 본다
+    best = None
+    for k0 in keys:
+        dp = {k: (sc[k][0] if k == k0 else -1e9, [k]) for k in keys}
+        for i in range(1, 8):
+            nd = {}
+            for k in keys:
+                cand = [(dp[p][0] + sc[k][i] - (6 if iou(ms[p][i - 1], ms[k][i]) > 0.93 else 0), dp[p][1] + [k]) for p in keys]
+                nd[k] = max(cand)
+            dp = nd
+        for k in keys:
+            tot = dp[k][0] - (6 if iou(ms[k][7], ms[k0][0]) > 0.93 else 0)
+            if best is None or tot > best[0]: best = (tot, dp[k][1])
+    seq = best[1]
+    out = os.path.join(d, 'W-wpn'); tips = []
+    for i, k in enumerate(seq): C[k]['wpn'][i].save(os.path.join(out, f'{i}.png')); tips.append(C[k]['tips'][i])
+    json.dump(tips, open(os.path.join(d, 'W-tips.json'), 'w'))
+    print('walk_pick', cls, seq, 'scores', {k: [round(v) for v in sc[k]] for k in keys})
+
+
+if __name__ == '__main__':
+    a = sys.argv; only = a[a.index('--only') + 1] if '--only' in a else None
+    pick(a[1], only)

diff --git a/dev/sheets-mage/plx.py b/dev/sheets-mage/plx.py
@@ -9,7 +9,7 @@ HERE = os.path.dirname(os.path.abspath(__file__))
 sys.path.insert(0, os.path.join(HERE, '..', 'pixellab'))
 from pl import call
 
-CAP = 90           # 이 계열 상한 (응답 usage 합계)
+CAP = 105           # 이 계열 상한 (응답 usage 합계)   # 2026-10-17 로드맵: 계열 상한 90 → 105
 FLOOR = 300        # 계정 잔량 안전 바닥
 LOG = os.path.join(HERE, 'usage.md')
 STATE = os.path.join(HERE, 'work', 'usage.json')

diff --git a/docs/specs/legacy-class-sheets.md b/docs/specs/legacy-class-sheets.md
@@ -253,9 +253,11 @@
 - 2026-10-18: 4단계 (로드맵 승인 14, 모두 usage 1.0, 계열 누적 84/90). 대검전사 평타 key3c 재편집으로 **합격** 3.71/3.57. 걷기 키 3 × 4종: **검사 합격** 3.86/3.86, 성기사·검성·대검전사 **미달**(프레임마다 무기·투구가 바뀜, 두 자세 반복) → 시트는 임시 걷기(들썩임)로 되돌림. 4종 시트 다시 조립, `?sheetsOn=` 확인. 남은 일: 걷기 3종(다음 달 초기화분, 직업당 키 3~4 — 무기를 손에 고정한 원본에서 다리만 바꾸는 편집), 성기사 평타 칼 길이·후광, SHEET_ON 켜기(사용자 결정).
   - 걷기만 재생성 (로드맵 승인, skeleton-v3 8f × 3 = usage 9, 누계 88/90): `skelgen.py walk_big` 보폭 1.5배·앞무릎 3칸 들기·몸 ±2·윗몸 앞 +2, 설명 "long robe parting so both legs are clearly visible" → `W-wpn`, 시트 walk 줄로. 시전 시작 정지 프레임은 `build.py SKEL_CAST_DROP`(빙결 1 · 뇌제 1·2)로 빼고 fps 를 줄여 시간 유지. 재검수(sonnet): 대마도사 시전+걷기 3.57 합격 · 빙결의 군주 3.29 · 뇌제 3.29 (걷기는 1배에서 걷는 것으로 읽힘, 일부 프레임 다리 뭉개짐·보폭 차이 작음).
 
+  - 걷기 다듬기 (로드맵 승인, 계열 상한 90→105, `plx.py` CAP 105): 빙결·뇌제 `W2` = `walk_big(1.8, 5, 3)`(보폭 1.8배·무릎 5칸·뒷다리 3칸 뒤, 시드 131) 8f × 2 = usage 6 (누계 94/105). `walk_pick.py`: 같은 위상 W1·W2 에서 프레임마다 다리 분리 점수로 고름(DP, 이웃 IoU 0.93 넘으면 벌점) — 빙결 [W2,W2,W1×6] · 뇌제 W2 전부. 재검수(sonnet): **뇌제 시전+걷기 3.57 합격**, 빙결의 군주 3.29 그대로(걷기 후반 긴 망토가 다리를 덮음) → 대안 B 로 현재 걷기 유지. 사용자 승인으로 3차 3종 SHEET_ON true (로드맵 69cb32d).
+
 ## 남은 일 / 미정
 - 2026-10-17 (로드맵, 레인저 교훈): skeleton-v3 는 첫 프레임이 무기를 겨눈 자세면 팔 관절을 따르지 않고 그 팔 모양을 지킨다(다리는 따름). 관절 애니 첫 프레임은 "팔 내린 중립 대기·빈손·무기 없음"으로 — 기준 그림이 무기를 든 자세면 계획서에 `edit-image-pixen` 중립 편집 1회(usage 1)를 넣는다. 첫 프레임 뼈 길이에 맞추면 팔이 짧아지니 목표 손 위치에서 관절 각도를 역산(레인저 `skelgen.py` `solve_hands` 참고).
-- 마법사 계열 3차 3종: 켤지 사용자 확인 (SHEET_ON false). 빙결의 군주·뇌제 시전+걷기 3.29 (모든 항목 3 이상, 평균 미달 — 걷기는 읽힘). 계열 PixelLab 88/90 이라 더 뽑지 않음.
+- 마법사 계열 7종 모두 켜짐 (상태: 완료, 사용자 승인). 남은 흠: 빙결의 군주 걷기 3.29(긴 망토가 다리를 덮는 후반 프레임 — 다시 손대려면 망토를 몸 뒤로 넘긴 디자인 수정이 필요), 대마도사 불꽃 고리·뇌제 번개 바퀴는 스킬 VFX 쪽 일(머리 뒤 장식, 시트에는 없음), 마법사·뇌전술사·3차 지팡이는 게임 지팡이 1.5배 확대 계단. 계열 PixelLab 94/105.
 - 마법사 계열 2차 4종(켜짐): 사용자가 ▣4 를 보고 `SHEET_ON` 을 켤지 정한다 (`?sheetsOn=` 로 시험). 3차 3종은 2차 시트를 편집하는 계획서를 따로 낸다.
 - 2026-10-16 레인저 계열 보류 (로드맵 검수 요청): 덧그리기 전 PixelLab 원본(마네킹)을 몽타주로 확인 — 활 쏘기는 뒷손 시위 당김이 없고 앞팔만 조금(손 약 4도트), 석궁 쏘기는 거의 정지, 공성 쏘기만 반동이 보임, 활 하늘 쏘기는 팔을 머리 위로 치켜듦(당기기 없음), 걷기 3종은 좋음. 검사 계열과 같은 "공격 때 몸·팔이 안 움직임" 문제가 원본부터 있다. 남은 PixelLab 호출 없음(usage 12 그대로), approved.txt 비움, SHEET_ON false. 확인 `dev/bowsheets/motion.py`, 검토 0-1절.
 - 레인저 계열: 2차 4종 새 시트 켬 (2026-10-17 사용자 확인). 3차 3종 시트도 켬 (2026-10-17 사용자 확인). 다음 달 PixelLab 초기화분으로: 7종 하늘 쏘기(석궁사수·3차 포함, 지금은 쏘기로 대신), 공성포수 큰 석궁이 활처럼 보이는 점.

diff --git a/dev/sheets-mage/usage.md b/dev/sheets-mage/usage.md
@@ -36,3 +36,5 @@
 | 30 | archmage | `/animate-with-skeleton-v3` | skelW: /animate-with-skeleton-v3 | 3.0 | 82.0 | 861.0 |
 | 31 | frostlord | `/animate-with-skeleton-v3` | skelW: /animate-with-skeleton-v3 | 3.0 | 85.0 | 857.0 |
 | 32 | thunderEmperor | `/animate-with-skeleton-v3` | skelW: /animate-with-skeleton-v3 | 3.0 | 88.0 | 854.0 |
+| 33 | frostlord | `/animate-with-skeleton-v3` | skelW2: /animate-with-skeleton-v3 | 3.0 | 91.0 | 846.0 |
+| 34 | thunderEmperor | `/animate-with-skeleton-v3` | skelW2: /animate-with-skeleton-v3 | 3.0 | 94.0 | 845.0 |
